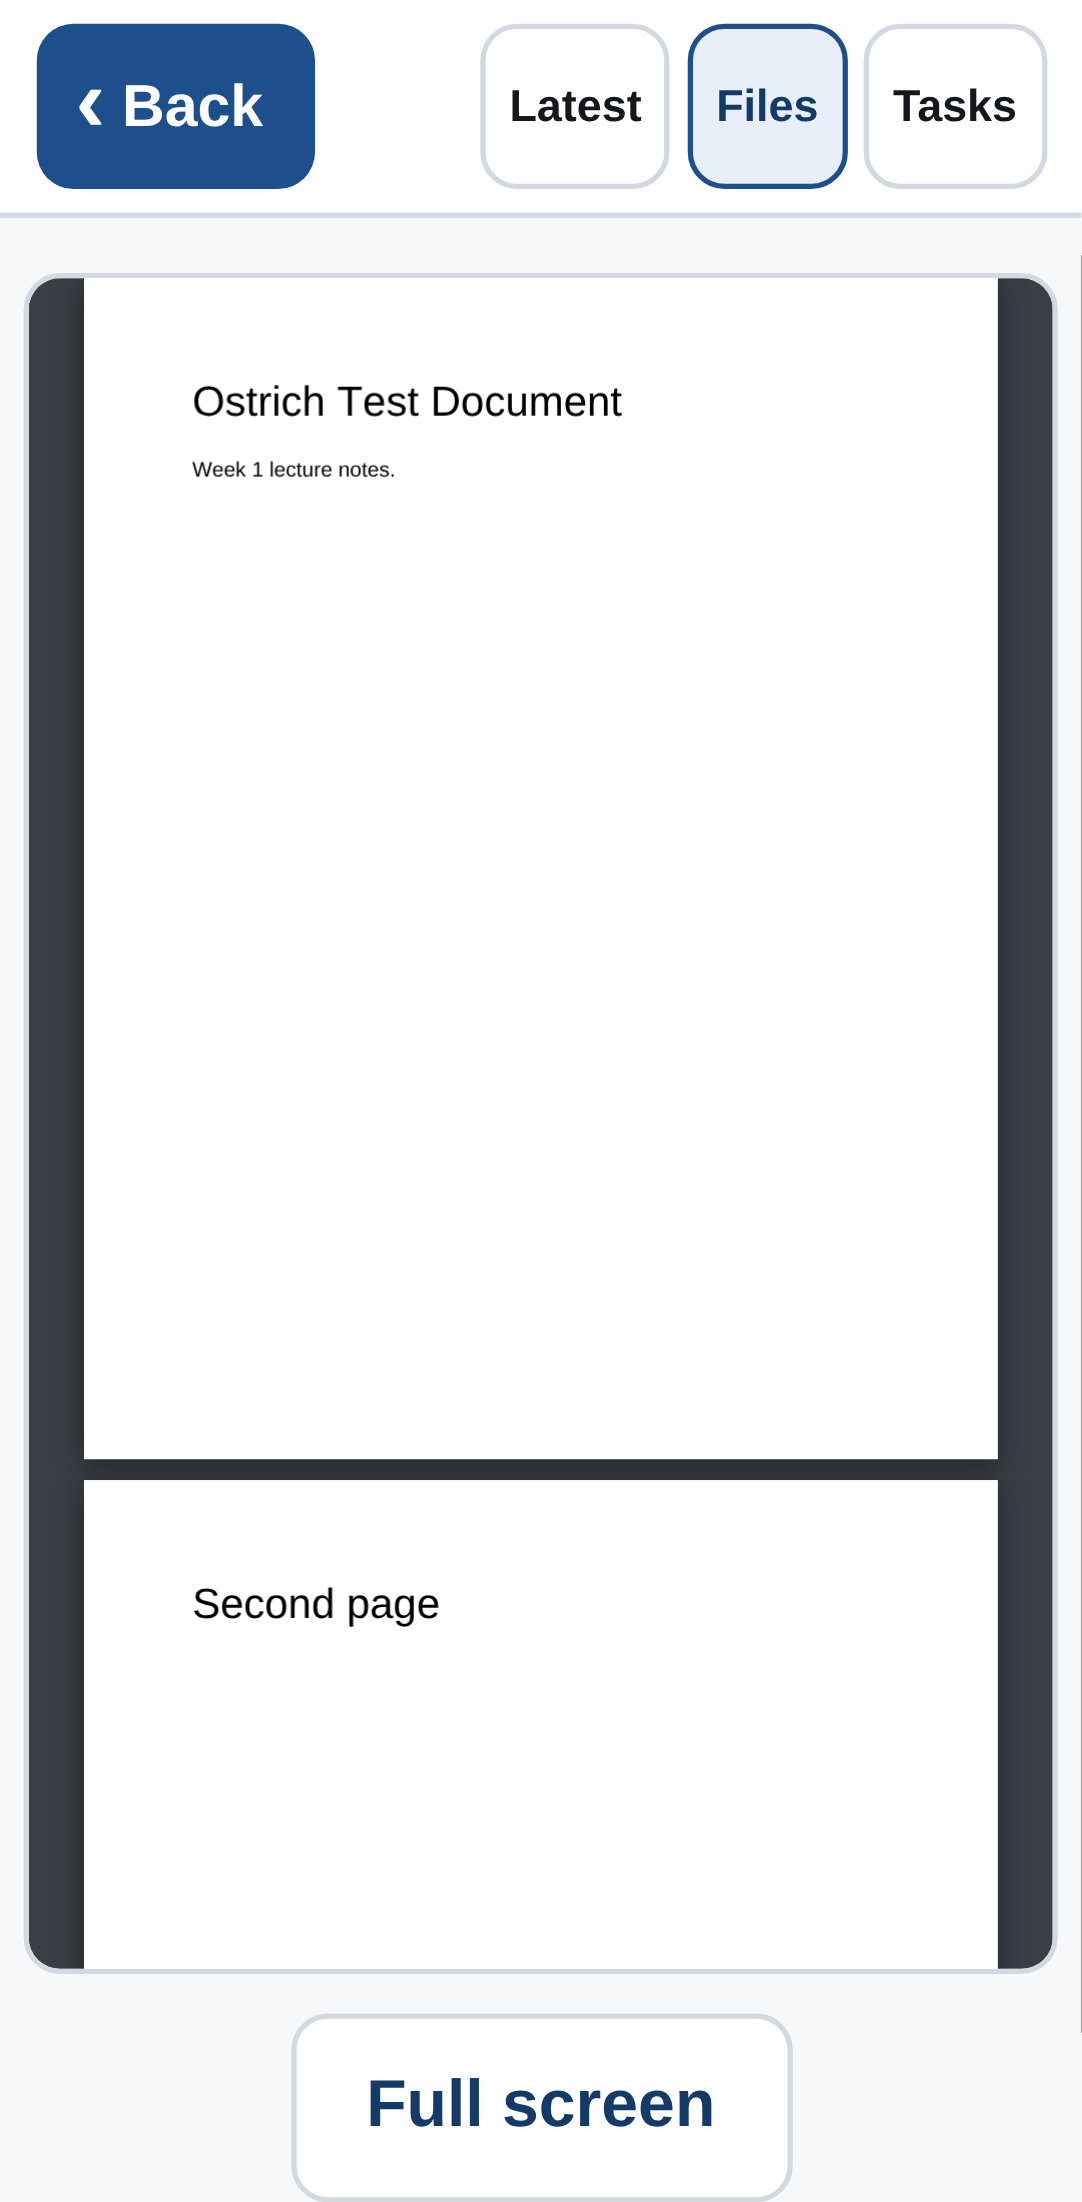
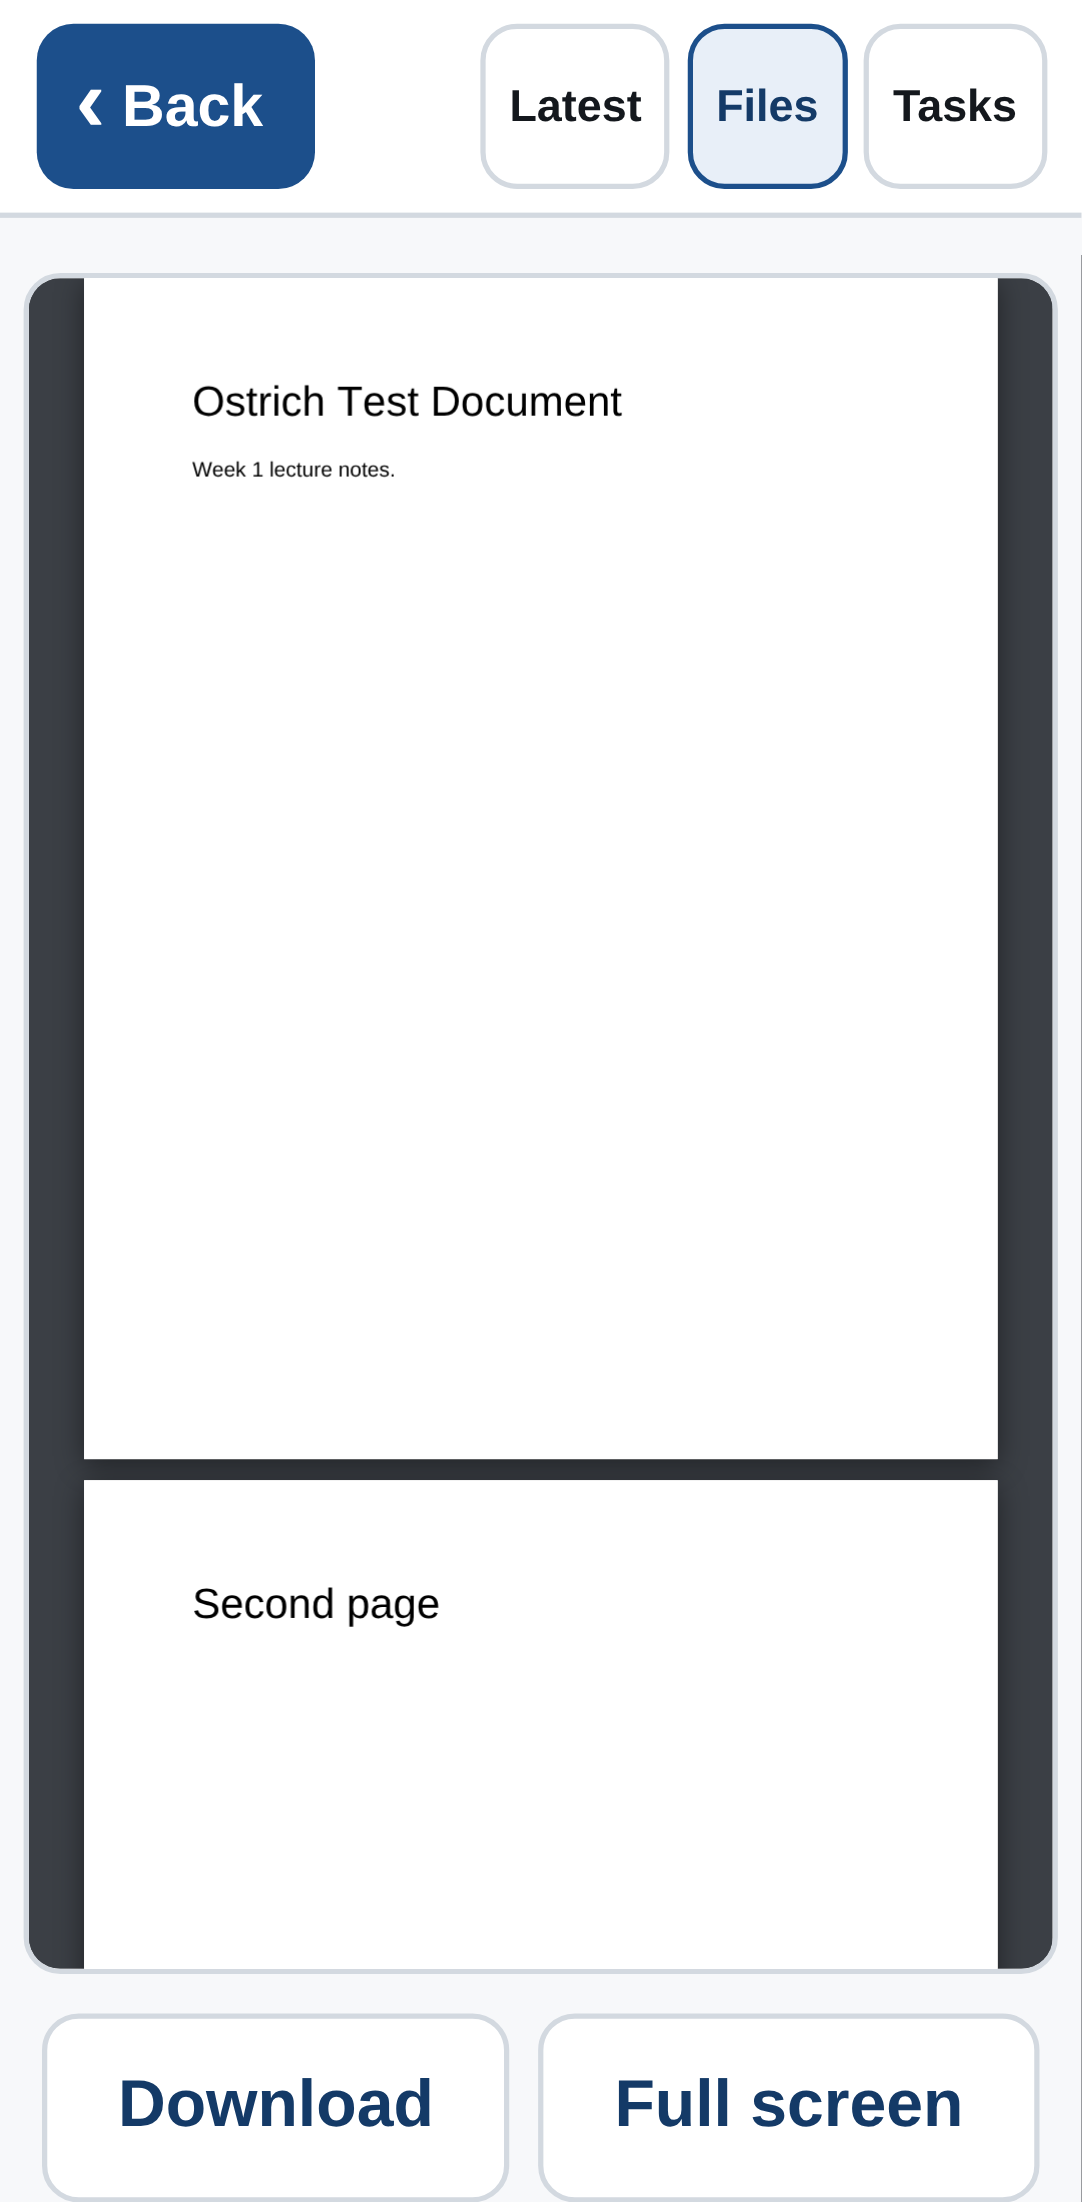
Photograph the tasks in the stream, and say what the rows mean
The stream screenshot is taken a little above the Today line rather than
exactly on it, so it holds both halves of the page: the overdue rows and the
undated line above, the divider, and the history below. The demo's own login
now lands on `/#today`, which is what the script waits for.

`.stream__list` was two things -- the <ul> of rows and the span naming a
task's list -- so the span inherited `display: grid` and put its colour dot
on one line and the list's name on the next (and gave every day's <ul> a
stray dot of its own). It is `.stream__list-name` now.

The README says what "changed" means, and that deletions are not shown at
all: a task list tells us what exists, never what used to, so a deletion
cannot be told apart from an unshared list or a lookup that failed. The
data-directory section and the DATA_DIR comment gain tasks-seen.json, and say
what losing it costs.

Changed region(s): [[0.0305, 0.8955, 0.671, 1.0], [0.7015, 0.8955, 0.976, 1.0]]

diff --git a/scripts/screenshots.js b/scripts/screenshots.js
@@ -24,8 +24,11 @@ import { startDemo } from './demo.js';
  * The demo seeds a sitting two days ago, so the stream's New badges are on the
  * first shot rather than absent (see scripts/demo.js).
  *
- * The stream comes first because it is what she lands on. `files.png` is the
- * folder page behind the Files toggle, which is where every other shot starts.
+ * The stream comes first because it is what she lands on -- on the Today line,
+ * with what is coming above it and what has happened below, which is why that
+ * shot is taken a little above the anchor rather than exactly on it.
+ * `files.png` is the folder page behind the Files toggle, which is where every
+ * other shot starts.
  */
 
 const OUT = join(fileURLToPath(new URL('..', import.meta.url)), 'docs', 'screenshots');
@@ -56,8 +59,14 @@ async function main() {
     // which is what puts the New badges on the shot below.
     await page.getByLabel('Your passphrase').fill(demo.passphrase);
     await page.getByRole('button', { name: 'Enter' }).click();
-    await page.waitForURL(`${demo.url}/`);
+    // Signing in lands on the Today line, which is where the app puts her.
+    await page.waitForURL(`${demo.url}/#today`);
     await page.waitForLoadState('networkidle');
+    // ...then back up a little, so the shot holds both sides of the line: the
+    // overdue task and the undated line above it, the Today divider, and the
+    // first of the history below. Landing exactly on the anchor would show the
+    // history alone, which is the half this page already had.
+    await page.evaluate(() => window.scrollBy(0, -420));
     await shot('stream');
 
     await page.goto('/files');

diff --git a/test/e2e/stream.spec.js b/test/e2e/stream.spec.js
@@ -226,7 +226,7 @@ test.describe('Latest', () => {
 
     // It says what happened, which list it happened in, and what time.
     await expect(manual.locator('.stream__what')).toHaveText('Finished');
-    await expect(manual.locator('.stream__list')).toHaveText('School Tasks');
+    await expect(manual.locator('.stream__list-name')).toHaveText('School Tasks');
     await expect(manual.locator('.stream__time')).toHaveText(/^\d{1,2}:\d{2} (AM|PM)$/);
     // And tapping it opens the list, the only place a task is shown in full.
     await manual.locator('a').click();
@@ -414,12 +414,12 @@ test.describe('When a task list is broken', () => {
     // The files are all there, and so is the list that works.
     await expect(page.locator('.stream__item', { hasText: 'microscope.jpg' })).toBeVisible();
     await expect(
-      page.locator('.stream__list', { hasText: 'School Tasks' }).first()
+      page.locator('.stream__list-name', { hasText: 'School Tasks' }).first()
     ).toBeVisible();
 
     // The broken one is simply absent -- no error page, no half-rendered row.
     await expect(page.getByText('Take the bins out')).toHaveCount(0);
-    await expect(page.locator('.stream__list', { hasText: 'Chores' })).toHaveCount(0);
+    await expect(page.locator('.stream__list-name', { hasText: 'Chores' })).toHaveCount(0);
     // And no caveat line: we know which lists exist, and all but one answered.
     await expect(page.getByText('Tasks couldn’t be checked')).toHaveCount(0);
   });

diff --git a/public/styles.css b/public/styles.css
@@ -1431,8 +1431,12 @@ a.stream__row:focus-visible {
  * contrast against white, and a name in a pale accent would be the one
  * unreadable thing on the page. The class comes from `accentClassFor` and sets
  * --tile-accent; a list with no colour falls back to the app's accent.
+ *
+ * `--name` matters: `.stream__list` is the <ul> that holds a day's rows, and a
+ * span sharing that class inherits its `display: grid` -- which put the dot on
+ * one line and the list's name on the next.
  */
-.stream__list::before {
+.stream__list-name::before {
   content: '';
   display: inline-block;
   width: 0.55rem;

diff --git a/test/unit/stream-route.test.js b/test/unit/stream-route.test.js
@@ -261,7 +261,7 @@ test('stream: a finished task sits among the file rows, in time order', async ()
   assert.ok(manual < week1, 'and the task after the earlier notes');
   // Each task row says what happened and which list it happened in.
   assert.ok(rowLabels(response.body).includes('Finished'));
-  assert.match(response.body, /<span class="stream__list [^"]*">School Tasks<\/span>/);
+  assert.match(response.body, /<span class="stream__list-name [^"]*">School Tasks<\/span>/);
   assert.match(response.body, /href="\/tasks\/school-tasks"/);
 });
 

diff --git a/README.md b/README.md
@@ -27,8 +27,10 @@ It is built for one person who does not want to learn Nextcloud:
 - **Office files can be kept.** A Word, PowerPoint, Excel or OpenDocument file
   — and a PDF — offers the original as a download, so anyone who wants the real
   layout can open it in the app that made it. Nothing else is downloadable.
-- **It opens on what has changed.** A stream of recent changes, newest first,
-  with anything since her last visit marked **New** — no hunting.
+- **It opens on what has changed, and what is coming.** One time axis: the
+  tasks that are due (overdue ones in red) above a **Today** line, and the
+  recent history of files and task changes below it, newest first, with
+  anything since her last visit marked **New** — no hunting.
 - **Read-only by construction.** The Nextcloud client speaks only `PROPFIND`,
   `SEARCH`, `REPORT` and `GET`; the app registers only `GET` routes plus the
   login/logout `POST`s. The viewer account's app password never reaches the
@@ -47,7 +49,7 @@ Every shot below is a phone-sized capture of `npm run demo` — the real app, th
 real templates, reading `demo/dataset.json` instead of a Nextcloud.
 
 <p align="center">
-  <img src="docs/screenshots/stream.png" width="190" alt="The Latest page: 'You were last here on Sat, Sep 5', then rows grouped under Today and Yesterday — each a file name, the folder it lives in, the time, and a New badge on the ones since her last visit.">
+  <img src="docs/screenshots/stream.png" width="190" alt="The Latest page: two overdue tasks in red under an Overdue heading, a line reading 'Also 3 tasks without a due date', then the Today divider and rows of files and task changes with New badges on the ones since her last visit.">
   <img src="docs/screenshots/files.png" width="190" alt="The Files page: big Biology 101, Essays and Math 210 folder buttons under a Latest / Files / Tasks toggle.">
   <img src="docs/screenshots/pdf.png" width="190" alt="A PDF rendered inline on the page, with the Back button still reachable at the top.">
   <img src="docs/screenshots/tasks.png" width="190" alt="The School task list: an overdue item in red, then a task with its due date, note, priority and percent-done.">
@@ -55,10 +57,26 @@ real templates, reading `demo/dataset.json` instead of a Nextcloud.
 
 <p align="center"><em>Latest · Files · a PDF, open in the page · a task list</em></p>
 
-**Latest** is the page she lands on, and the headline: what has changed, newest
-first, grouped by day, each row naming the folder it changed in. Rows newer than
-her *previous* visit carry a **New** badge — nothing is ever hidden by a
-timestamp, so a badge in the wrong place costs her a badge and not the list.
+**Latest** is the page she lands on, and the headline. It is one time axis, and
+she arrives on the **Today** line in the middle of it: above the line, the tasks
+that are coming up — furthest away at the top, the soonest just above the line,
+and anything late in red right against it, with a counted line for the tasks
+that carry no due date at all. Below the line, what has happened: files and task
+changes together, newest first, grouped by day, each row naming the folder it
+changed in or the task list it belongs to. Tapping a task row opens its list,
+which is the only place a task is shown in full.
+
+Rows newer than her *previous* visit carry a **New** badge — nothing is ever
+hidden by a timestamp, so a badge in the wrong place costs her a badge and not
+the list. A task row says **Added**, **Finished** or **Changed**: *changed*
+means the task was edited after it appeared — renamed, re-dated, a note added —
+and since the app only ever reads, it cannot say what was edited, only that
+something was. **Tasks that are deleted are not shown at all**: a task list
+tells us what exists, never what used to, so a deletion is indistinguishable
+from a list being unshared or a lookup that failed. If the task side cannot be
+read, the file history is still there and a quiet line says tasks couldn't be
+checked; the page never fails because of tasks.
+
 **Latest / Files / Tasks** sits on every page, so any section is one tap away.
 Files open **in the page**, and Back is reachable from everywhere. The only
 thing offered as a download is an office file or a PDF, on its own page, behind
@@ -371,6 +389,13 @@ back across the tunnel.
   what the stream's **New** badges are measured against. Deleting it resets
   everyone's baseline to now, so nothing is badged until something changes; the
   stream itself is unaffected, because it never hides a row.
+- `tasks-seen.json` — which task UIDs this app has already met, so it can tell a
+  newly shared task from one that has been on the list all term. A shared VTODO
+  carries no reliable "created" date (the Tasks Android app writes none), so
+  remembering is the only way "Added" can be honest. It is one file for the
+  household, not one per viewer, and deleting it only costs a burst of **Added**
+  rows dated by the tasks' own timestamps. Entries for tasks nobody has seen for
+  90 days are dropped on the next write.
 
 Both survive `docker compose restart`, rebuilds and reboots. `./config` is
 mounted read-only; the container cannot rewrite its own auth config.
@@ -507,12 +532,15 @@ shipping one; only the address the WebDAV requests go to is different.
 You get a college student's Nextcloud: **Biology 101** (lecture PDFs, a Word
 handout, a lab photo, a reading list), **Math 210** (problem sets, a graph), an
 **Essays** folder, and two task lists — **School** (with a nested subtask, one
-overdue item and a couple already ticked off) and **Apartment**. It opens on
+overdue item and a couple already ticked off) and **Apartment** (with an overdue
+one of its own). It opens on
 **Latest** with a few days of changes already on it, the recent ones badged
 **New**: the demo seeds a sitting two days ago, and several files in the dataset
 are stamped inside that window, so the badges are there on the very first load
 instead of never (a brand-new viewer has nothing to compare against — see
-`src/store/visits.js`).
+`src/store/visits.js`). The dataset's due dates sit on both sides of today, so
+the Today line has tasks coming up above it — one of them overdue — and the
+history below it.
 
 The dataset also seeds `Documents`, `Photos`, `Templates` and a few sample
 files — exactly the skeleton content a freshly created Nextcloud account gets
